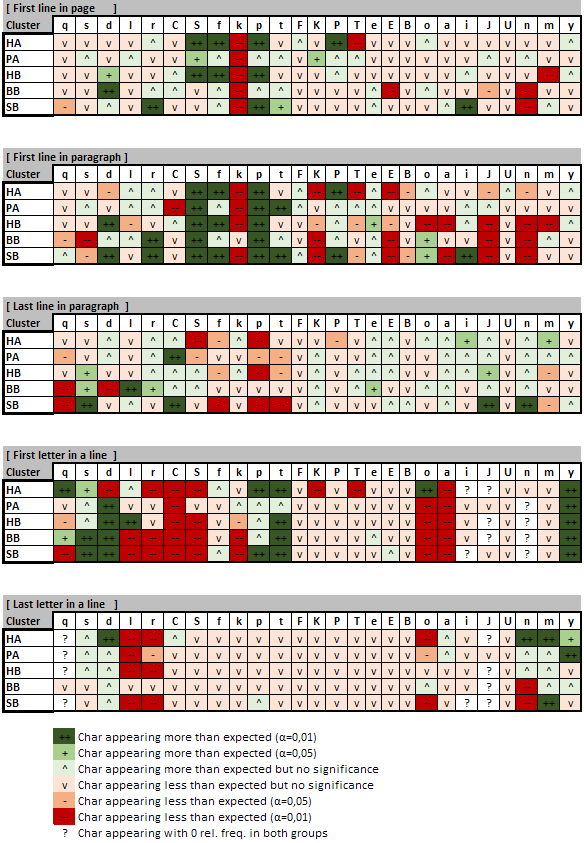
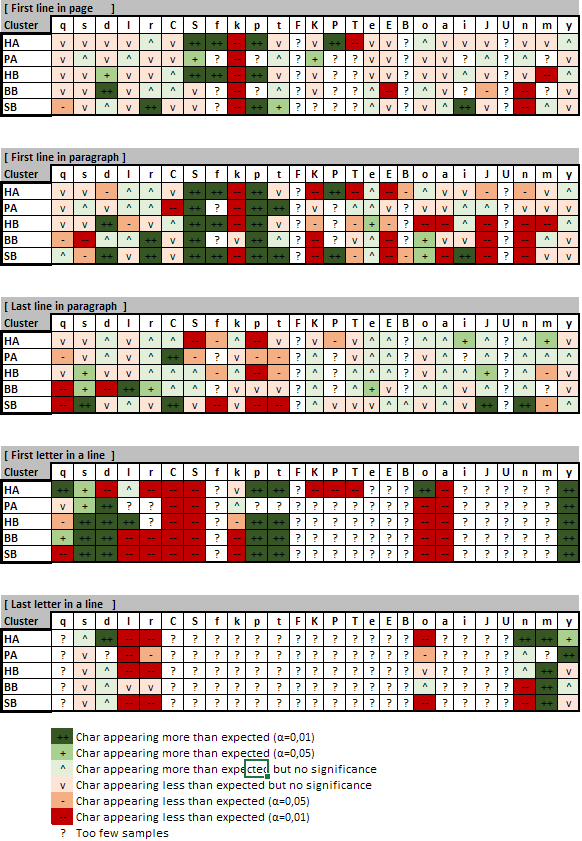
Added WordInPositionInLine to Experiments. Minor content changes in web pages.

diff --git a/eclipse/io.github.mzattera.v4j-apps/src/test/java/io/github/mzattera/v4j/applications/chars/ExperimentsTest.java b/eclipse/io.github.mzattera.v4j-apps/src/test/java/io/github/mzattera/v4j/applications/chars/ExperimentsTest.java
@@ -177,8 +177,8 @@ public final class ExperimentsTest {
 	}
 
 	@Test
-	@DisplayName("Experiments.FirstWordInLine().splitDocument() TRUE")
-	public void FirstWordInLineT() throws Exception {
+	@DisplayName("Experiments.FirstWordInLine(FALSE, TRUE).splitDocument()")
+	public void FirstWordInLineFT() throws Exception {
 		Text[] splitted = new Experiments.FirstWordInLine(false, true).splitDocument(INPUT);
 		testCount(splitted[0], new String[] { "faCys", "syaJr", "ySey", "daJn", "dCar", "Sok", "Po" });
 		testCount(splitted[1],
@@ -191,8 +191,8 @@ public final class ExperimentsTest {
 	}
 
 	@Test
-	@DisplayName("Experiments.FirstWordInLine().splitDocument() FALSE")
-	public void FirstWordInLineF() throws Exception {
+	@DisplayName("Experiments.FirstWordInLine(TRUE, FALSE).splitDocument() FALSE")
+	public void FirstWordInLineTF() throws Exception {
 		Text[] splitted = new Experiments.FirstWordInLine(true, false).splitDocument(INPUT);
 		testCount(splitted[0], new String[] { "?ory", "syaJr", "ySey", "daJn", "dCar", "Sok" });
 		testCount(splitted[1],
@@ -203,8 +203,8 @@ public final class ExperimentsTest {
 	}
 
 	@Test
-	@DisplayName("Experiments.LastWordInLine().splitDocument() TRUE")
-	public void LastWordInLineT() throws Exception {
+	@DisplayName("Experiments.LastWordInLine(FALSE, TRUE).splitDocument()")
+	public void LastWordInLineFT() throws Exception {
 		Text[] splitted = new Experiments.LastWordInLine(false, true).splitDocument(INPUT);
 		testCount(splitted[0], new String[] { "Soldy", "dan", "sy", "Sodary", "kos", "Sody", "Podales", "Key", });
 		testCount(splitted[1],
@@ -217,8 +217,8 @@ public final class ExperimentsTest {
 	}
 
 	@Test
-	@DisplayName("Experiments.LastWordInLine().splitDocument() FALSE")
-	public void LastWordInLineF() throws Exception {
+	@DisplayName("Experiments.LastWordInLine(TRUE, FALSE).splitDocument()")
+	public void LastWordInLineTF() throws Exception {
 		Text[] splitted = new Experiments.LastWordInLine(true, false).splitDocument(INPUT);
 		testCount(splitted[0], new String[] { "dan", "sy", "kos", "Sody", "d?o?ta", "Key" });
 		testCount(splitted[1],
@@ -226,6 +226,105 @@ public final class ExperimentsTest {
 						"or", "yka??Jn", "Sod", "Toary", "Tes", "daraJn", "ySey", "Sody", "okCoy", "otCol", "CoTy",
 						"osCy", "dain", "Cor", "daJn", "Sos", "Fol", "dCar", "STaJn", "okaJr", "Cey", "?Cy", "potol",
 						"Tols", "Sok", "Cor", "Cey", "dain", });
+	}
+
+	@Test
+	@DisplayName("Experiments.WordInPositionInLine(3, FALSE, FALSE, FALSE)")
+	public void WordInPositionInLine3FFF() throws Exception {
+		Text[] splitted = new Experiments.WordInPositionInLine(3, false, false, false).splitDocument(INPUT);
+		testCount(splitted[0], new String[] { "ataJn", "y", "yka??Jn",
+
+				"Sol", "otCol", "Sody",
+
+				"ol", "Cey", "dain",
+
+				"Col" });
+
+		testCount(splitted[1],
+				new String[] { "faCys", "ykal", "ar", "Sol", "Sory", "Tres", "y", "kor", "Soldy", "?ory", "Kar", "or",
+						"kair", "CtaJn", "Sar", "are", "Tar", "Tar", "dan", "syaJr", "Seky", "or", "Sod", "Toary",
+						"Tes", "daraJn", "sy",
+
+						"?", "odar", "sy", "Poy", "oydar", "S", "s", "FoaJn", "Sodary", "ySey", "Sody", "okCoy", "CoTy",
+						"osCy", "dain", "Cor", "kos", "daJn", "Sos", "Fol",
+
+						"?", "ydain", "PesaJn", "s", "Pey", "ytain", "SoSy", "Podales", "dCar", "STaJn", "okaJr", "?Cy",
+						"potol", "Tols", "d?o?ta", "Sok", "Cor", "Cey", "Key",
+
+						"Po", "SaJn", "SokCEy", "tSodEsy", "Sey", "pydEy", "Cy", "ro", "d?" });
+	}
+
+	@Test
+	@DisplayName("Experiments.WordInPositionInLine(3, FALSE, FALSE, TRUE)")
+	public void WordInPositionInLine3FFT() throws Exception {
+		Text[] splitted = new Experiments.WordInPositionInLine(3, false, false, true).splitDocument(INPUT);
+		testCount(splitted[0], new String[] { "ataJn", "y",
+
+				"Sol", "otCol", "Sody",
+
+				"ol", "Cey", "dain",
+
+				"Col" });
+
+		testCount(splitted[1],
+				new String[] { "faCys", "ykal", "ar", "Sol", "Sory", "Tres", "y", "kor", "Soldy", "Kar", "or", "kair",
+						"CtaJn", "Sar", "are", "Tar", "Tar", "dan", "syaJr", "Seky", "or", "Sod", "Toary", "Tes",
+						"daraJn", "sy",
+
+						"odar", "sy", "Poy", "oydar", "S", "s", "FoaJn", "Sodary", "ySey", "Sody", "okCoy", "CoTy",
+						"osCy", "dain", "Cor", "kos", "daJn", "Sos", "Fol",
+
+						"ydain", "PesaJn", "s", "Pey", "ytain", "SoSy", "Podales", "dCar", "STaJn", "okaJr", "potol",
+						"Tols", "Sok", "Cor", "Cey", "Key",
+
+						"Po", "SaJn", "SokCEy", "tSodEsy", "Sey", "pydEy", "Cy", "ro" });
+	}
+
+	@Test
+	@DisplayName("Experiments.WordInPositionInLine(6, FALSE, FALSE, FALSE)")
+	public void WordInPositionInLine6FFF() throws Exception {
+		Text[] splitted = new Experiments.WordInPositionInLine(6, false, false, false).splitDocument(INPUT);
+		testCount(splitted[0], new String[] { "Tres", "Sar", "Tes",
+
+				"S", "dain",
+
+				"ytain", "Tols",
+
+				"pydEy" });
+
+		testCount(splitted[1],
+				new String[] { "faCys", "ykal", "ar", "ataJn", "Sol", "Sory", "y", "kor", "Soldy", "?ory", "Kar", "or",
+						"y", "kair", "CtaJn", "are", "Tar", "Tar", "dan", "syaJr", "Seky", "or", "yka??Jn", "Sod",
+						"Toary", "daraJn", "sy",
+
+						"?", "odar", "sy", "Sol", "Poy", "oydar", "s", "FoaJn", "Sodary", "ySey", "Sody", "okCoy",
+						"otCol", "CoTy", "osCy", "Cor", "kos", "daJn", "Sos", "Fol", "Sody",
+
+						"?", "ydain", "PesaJn", "ol", "s", "Pey", "SoSy", "Podales", "dCar", "STaJn", "okaJr", "Cey",
+						"?Cy", "potol", "d?o?ta", "Sok", "Cor", "Cey", "dain", "Key",
+
+						"Po", "SaJn", "SokCEy", "Col", "tSodEsy", "Sey", "Cy", "ro", "d?" });
+	}
+
+	@Test
+	@DisplayName("Experiments.WordInPositionInLine(6, FALSE, FALSE, FALSE)")
+	public void WordInPositionInLine6TTF() throws Exception {
+		Text[] splitted = new Experiments.WordInPositionInLine(6, true, true, false).splitDocument(INPUT);
+		testCount(splitted[0], new String[] { "Sar", "Tes",
+
+				"dain",
+
+				"Tols", });
+
+		testCount(splitted[1],
+				new String[] { "Kar", "or", "y", "kair", "CtaJn", "are", "Tar", "Tar", "dan", "Seky", "or", "yka??Jn",
+						"Sod", "Toary", "daraJn", "sy",
+
+						"Sody", "okCoy", "otCol", "CoTy", "osCy", "Cor", "kos", "Sos", "Fol", "Sody",
+
+						"STaJn", "okaJr", "Cey", "?Cy", "potol", "d?o?ta", "Cor", "Cey", "dain", "Key",
+
+				});
 	}
 
 	@Test
@@ -254,22 +353,17 @@ public final class ExperimentsTest {
 	}
 
 	@Test
-	@DisplayName("Experiments.Initials(TRUE): FirstWordInLine(false)")
+	@DisplayName("Experiments.Initials(TRUE): FirstWordInLine(false, false)")
 	public void InitialsT() throws Exception {
 		Text[] splitted = new Experiments.Initials(new Experiments.FirstWordInLine(false, false), true)
 				.splitDocument(INPUT);
-
-		System.out.println(splitted[0]);
-		System.out.println("\n");
-		System.out.println(splitted[1]);
-
 		test(splitted[0], new String[] { "fsyddSP" });
 		test(splitted[1],
 				new String[] { "yaaSSTykSKoykCSaTTdSoySTTdsosSPoSsFSSooCodCkSFSyPosPySPSoCpTdCCdKSSCtSpCrd" });
 	}
 
 	@Test
-	@DisplayName("Experiments.Initials(FALSE): FirstWordInLine(false)")
+	@DisplayName("Experiments.Initials(FALSE): FirstWordInLine(false, false)")
 	public void InitialsF() throws Exception {
 		Text[] splitted = new Experiments.Initials(new Experiments.FirstWordInLine(false, false), false)
 				.splitDocument(INPUT);
@@ -279,7 +373,7 @@ public final class ExperimentsTest {
 	}
 
 	@Test
-	@DisplayName("Experiments.Finals(TRUE): LastWordInLine(false)")
+	@DisplayName("Experiments.Finals(TRUE): LastWordInLine(false, false)")
 	public void FinalsT() throws Exception {
 		Text[] splitted = new Experiments.Finals(new Experiments.LastWordInLine(false, false), true)
 				.splitDocument(INPUT);
@@ -288,7 +382,7 @@ public final class ExperimentsTest {
 	}
 
 	@Test
-	@DisplayName("Experiments.Finals(FALSE): LastWordInLine(false)")
+	@DisplayName("Experiments.Finals(FALSE): LastWordInLine(false, false)")
 	public void FinalsF() throws Exception {
 		Text[] splitted = new Experiments.Finals(new Experiments.LastWordInLine(false, false), false)
 				.splitDocument(INPUT);

diff --git a/eclipse/io.github.mzattera.v4j-apps/src/main/java/io/github/mzattera/v4j/applications/chars/Experiments.java b/eclipse/io.github.mzattera.v4j-apps/src/main/java/io/github/mzattera/v4j/applications/chars/Experiments.java
@@ -341,7 +341,8 @@ public final class Experiments {
 	 * interested in must be provided. Finally, a flag is used to indicate whether
 	 * "unreadable" words should be considered or not.
 	 * 
-	 * Notice only the text in running paragraphs is considered.
+	 * Notice only the text in running paragraphs is considered. In addition, 
+	 * the position of words in line do not change if you decide to ignore the first word of each line.
 	 * 
 	 * @author Massimiliano "Maxi" Zattera
 	 *
@@ -358,9 +359,10 @@ public final class Experiments {
 
 		/**
 		 * 
-		 * @param skipFirstLine If true, skip first line of paragraphs.
-		 * @param readableOnly  if true, consider only the words that do not contain any
-		 *                      unreadable characters.
+		 * @param skipFirstLine       If true, skip first line of paragraphs.
+		 * @param skipFirstWordInLine If true, skip first word in each line.
+		 * @param readableOnly        if true, consider only the words that do not
+		 *                            contain any unreadable characters.
 		 */
 		public WordInPositionInLine(int position, boolean skipFirstLine, boolean skipFirstWordInLine,
 				boolean readableOnly) {
@@ -380,18 +382,22 @@ public final class Experiments {
 			if (skipFirstLine)
 				paragraphs = Experiments.filterLines(paragraphs, true, false);
 
-			List<Counter<String>> words = getWordsByPosition((IvtffText) txt, readableOnly, 0, Integer.MAX_VALUE,
-					skipFirstWordInLine, false);
-
-			List<String> result = new ArrayList<>(words.get(position).itemSet());
+			List<String> result = new ArrayList<>();
 			List<String> others = new ArrayList<>();
 
-			for (int i = 0; i < words.size() - 1; ++i) {
-				if (i == position)
-					continue; // we already have this
-				for (Counter<String> c : words)
-					for (String w : c.itemSet())
-						others.add(w);
+			for (IvtffPage p : paragraphs.getElements()) {
+				for (IvtffLine l : p.getElements()) {
+					String[] w = l.splitWords();
+					for (int i = (skipFirstWordInLine ? 1 : 0); i < w.length; ++i) {
+						if (!readableOnly || !a.isUnreadable(w[i])) {
+							if (i == position)
+								result.add(w[i]);
+							else
+								others.add(w[i]);
+						}
+					}
+
+				}
 			}
 
 			char space = a.getSpace();

diff --git a/eclipse/io.github.mzattera.v4j-apps/src/main/java/io/github/mzattera/v4j/applications/chars/TwoSamplesCharDistributionTest.java b/eclipse/io.github.mzattera.v4j-apps/src/main/java/io/github/mzattera/v4j/applications/chars/TwoSamplesCharDistributionTest.java
@@ -62,7 +62,7 @@ public abstract class TwoSamplesCharDistributionTest {
 	private static final double ALPHA2 = 0.05d;
 
 	/** Compact output */
-	private static final boolean COMPACT = true;
+	private static final boolean COMPACT = false;
 
 	protected TwoSamplesCharDistributionTest() {
 	}
@@ -90,11 +90,8 @@ public abstract class TwoSamplesCharDistributionTest {
 			new Experiments.LastLineInParagraph().process(voynich);
 			System.out.print("\n\n[ First letter in a line  ];\n");
 			new Experiments.Initials(new Experiments.FirstWordInLine(false, false), true).process(voynich);
-
-//			IvtffText voynich = new IvtffText(new File("D:\\Voynich_normalized.txt"));
-//			new Experiments.Initials(
-//					new Experiments.WithStandardPopulation(new Experiments.FirstWordInLine(true, true), true), true)
-//					.process(voynich);
+			System.out.print("\n\n[ Last letter in a line   ];\n");
+			new Experiments.Finals(new Experiments.LastWordInLine(false, false), true).process(voynich);
 
 		} catch (Exception e) {
 			e.printStackTrace();
@@ -142,7 +139,7 @@ public abstract class TwoSamplesCharDistributionTest {
 	 * @param clusterText Text to process.
 	 * @param compact     If true, print a compact version of the distribution
 	 *                    table.
-	 * @return Two list, with characters appearing more and less than they should,
+	 * @return Two lists, with characters appearing more and less than they should,
 	 *         based on chi-squared text and ALPHA.
 	 */
 	public List<Character>[] processCluster(String cluster, IvtffText clusterText, boolean compact) {

diff --git a/docs/010/index.md b/docs/010/index.md
@@ -25,24 +25,20 @@ This note looks into it, using for the first time the
 [Slot transcription](https://github.com/mzattera/v4j/blob/master/eclipse/io.github.mzattera.v4j/src/main/resources/Transcriptions/Interlinear_slot_ivtff_1.5.txt).
 
 **Unless differently indicated, the rest of this note uses the [Slot alphabet](../alphabet) when quoting Voynich text.** 
-Please notice that lowercase letters represent same characters both in EVA and Slot alphabets; uppercase letters used in the Slot alphabet represent groups of
-characters in EVA (e.g., 'qoCey' in Slot corresponds to 'qochey' in EVA).
 
 # Methodology
 
 In this note I will show the result of several experiments. In each experiment, the text of the Voynich is split into two parts,
-for example first lines of every paragraph will form the first part of text, whilst the other lines are in the second part;
+for example initial lines of every paragraph will form the first part of text, whilst the other lines will be in the second part;
 the character distribution of the two parts is compared using a chi-squared test, where each "bin " is a character.
 If the test shows a statistically significant variation, then each character is tested individually (again, using a chi-squared test),
 to highlight which characters behave differently in the two parts of the text.
 
 In all experiments, a [concordance version](https://github.com/mzattera/v4j/blob/master/eclipse/io.github.mzattera.v4j/src/main/resources/Transcriptions/Interlinear_slot_ivtff_1.5.txt)
 of the Voynich in the Slot alphabet is used; only text appearing in paragraphs is considered (IVTFF locus type = P0 or P1).
-The experiments are done separately for each [cluster](../003);.
+The experiments are done separately for each [cluster](../003).
 
 The set of experiments is as follows:
-
-*** Ricontrolla che le definizioni qui sotto siano giuste ***
 
   * First line in page - first lines of pages are compared with the rest of the text.
   * First line in paragraph - first lines of paragraphs are compared with the rest of the text.
@@ -50,12 +46,10 @@ The set of experiments is as follows:
   * First letter in a line - initial character of first word in a line is compared with initial characters of all other words.
   * Last letter in a line - final character of last word in a line is compared with last characters of all other words.
 
+*** FAI UN TEST DEI METODI STATICI IN EXPERIMENTS (I TEST PER LE SINGOLE CLASSI ESISTONO tranne che per WordInPositionInLine) ***
 *** FAI UN TEST DEL BINNING USATO PER I TEST ***
-*** FAI UN TEST DEI METODI STATICI IN EXPERIMENTS (I TEST PER LE SINGOLE CLASSI ESISTONO) ***
 
 The results are shown in the below table[{1}](#Note1)[{2}](#Note2):
-
-** PRENDI L ULTIMA VERSIONE PE RLO SCREENSHOT **
 
 ![Summary table of anomalies in char distribution](images/SummaryTable.PNG)
 
@@ -74,14 +68,14 @@ and the anomalies in distribution disappeared.
   One example (of char statistics) is found in D'Imperio (1978) (see note 4), Fig. 28 on p.106, from several sources but none covering the entire MS text.
 
 
-## Lenght & Interesting
+## Lenght & Interesting -> METTI IN UNA NUOVA NOTA
 
-Here or in another note study lenght and number of intersting words.
+Study lenght and number of intersting words.
 For interesting words, add also "last line of paragraph" to the study, similar to what we did with last word....count from the end.
 
 
 
-## Removing Characters from beginning of Words
+## Removing Characters from beginning of Words -> METTI IN UNA NUOVA NOTA, la stessa di cui sopra
 
 In previous works about character distribution, one theory or another has been pitched by claiming something like:
 "character X appears in this place, but if we remove it, we obtain another word that appears somewhere else in the Voynich".
@@ -102,10 +96,12 @@ This criteria, though if it might make some sense, should thus taken with a grai
 and that the occurrence of certain symbols is governed by the position of a ‘word’ in a line":
 
   1. "The frequency counts of the beginnings and endings of lines are markedly different from the counts of the same characters internally".
+  -> See below
 
   2. "The ends of the lines contain what seem to be, in many cases, meaningless symbols:
 	little groups of letters which don’t occur anywhere else, and just look as if they were
 	added to fill out the line to the margin".
+  -> See below
 	
   3. "In \[the herbal material and of the biological material\] ... there is not one single case of a repeat going over the end of a line to
 	the beginning of the next".
@@ -143,7 +139,7 @@ Words starting with pedestalled gallows are more rare and distributed more or le
 
 75-95% of first words in paragraphs start with a (pedestalled) gallows.
 
-p, f, P, F appear almost exclusively in first line of a paragraph; p and f, when appearing in the first word; are almost always initials.
+p, f, P, F appear almost exclusively in first line of a paragraph; p and f, when appearing in the first word, are almost always initials.
 
 Other (pedestalled) gallows tend to not appear as word initials.
 
@@ -250,6 +246,9 @@ appear elsewhere too, but the predominance in top lines of paragraphs is very st
 [TILTMAN (1967)](../biblio.md) 'y' occurs quite frequently as the initial symbol of a line followed immediately by a combination of symbols which seem
 to be happy without it in any part of a line away from the beginning (d).
   
+[CURRIER (1976)](../biblio.md) "functional entity":
+  1. "The frequency counts of the beginnings and endings of lines are markedly different from the counts of the same characters internally".
+  
 [CURRIER (1976)](../biblio.md)
   * The 'ligatures' [ cKh cTh cFh cPh ] can never occur as paragraph initial, and almost never line initial.
   
@@ -276,8 +275,9 @@ aiin aiin, ol ol, and or or are replaced with saiin saiin, sol sol, and sor sor.
 
 [TILTMAN (1967)](../biblio.md) 'm' appears most commonly at the end of a line, rarely elsewhere (b).
 
-[CURRIER (1976)](../biblio.md) advocated the idea of the line, when the text is running linearly, being a "functional entity",
-based on the below considerations:
+[CURRIER (1976)](../biblio.md) "functional entity",
+  
+  1. "The frequency counts of the beginnings and endings of lines are markedly different from the counts of the same characters internally".
 
   2. There is, for instance, one symbol that, while it does occur elsewhere, occurs at the
 	end of the last ‘words’ of lines 85% of the time".
